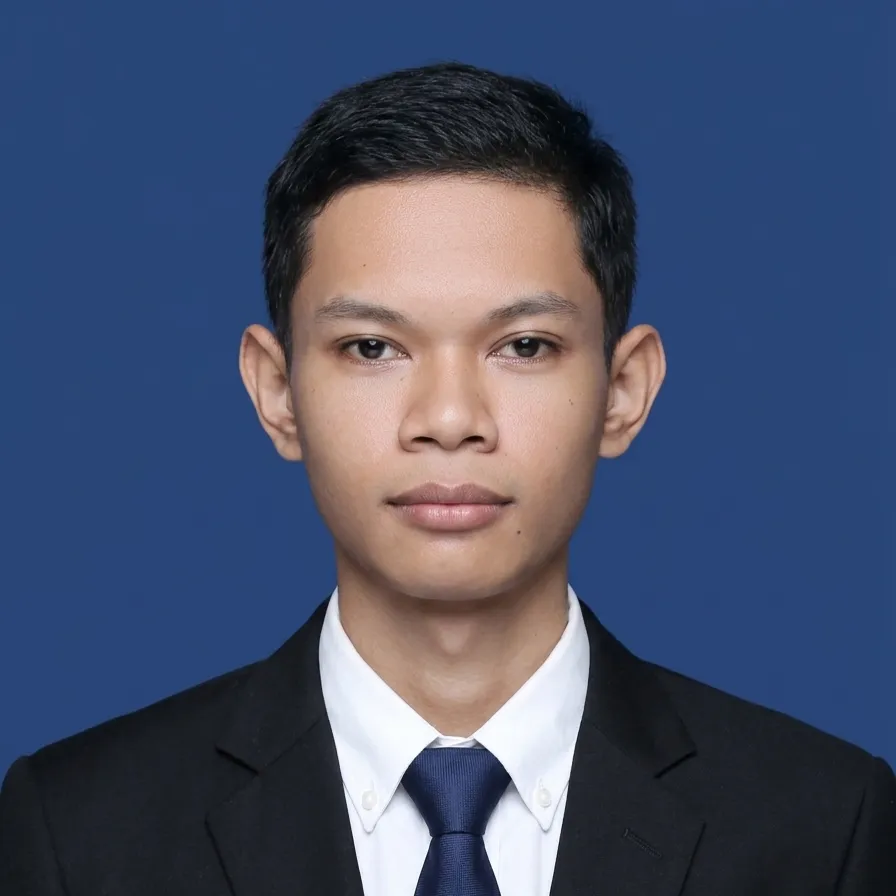
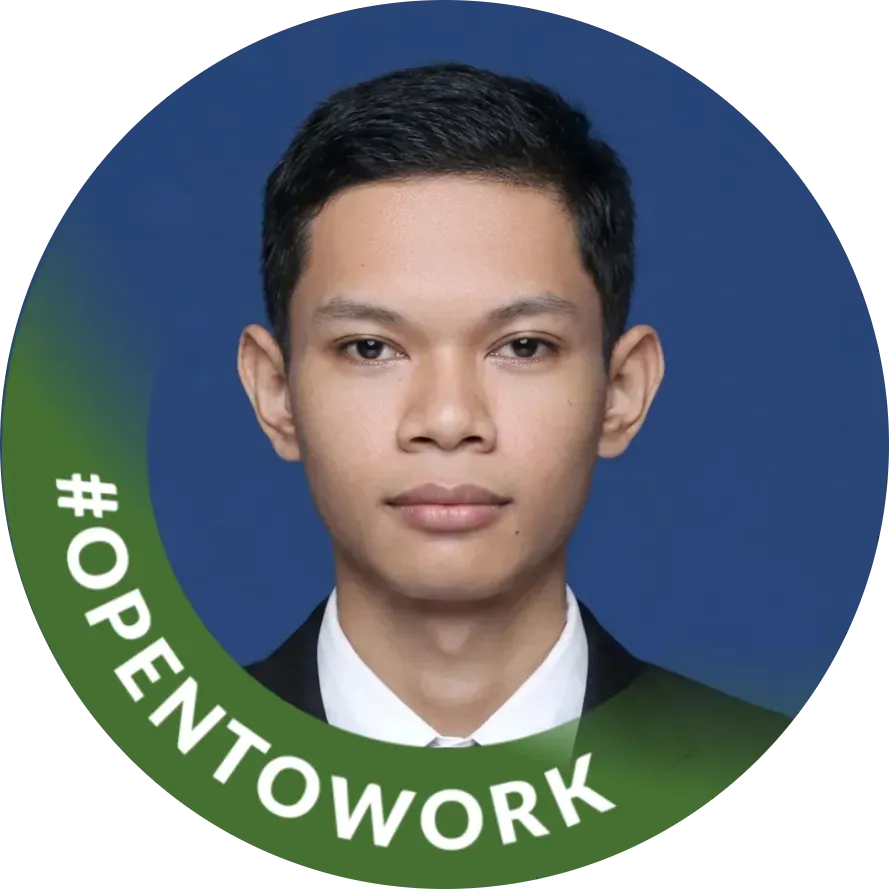
update

diff --git a/index.html b/index.html
@@ -36,7 +36,7 @@
 
     <!-- PWA Manifest & Icons -->
     <link rel="manifest" href="manifest.json">
-    <link rel="apple-touch-icon" href="assets/images/icons/icon-192.png">
+    <link rel="apple-touch-icon" href="assets/images/icons/icon-192.webp">
     <meta name="theme-color" content="#284F8C">
     <meta name="mobile-web-app-capable" content="yes">
     <meta name="apple-mobile-web-app-status-bar-style" content="black-translucent">
@@ -249,7 +249,6 @@
                         <img src="assets/images/profile/profile.webp" alt="Foto Profil Hiu Kencana Widhi. S.T." class="hero-img"
                              loading="eager" decoding="async"
                              onerror="this.src='https://via.placeholder.com/350'">
-                        <img src="assets/images/badge/badge.png" alt="Open To Work Badge" class="hero-badge-overlay">
                     </div>
                 </div>
             </div>
@@ -689,13 +688,10 @@
                 </div>
                 <div class="modal-body text-center pt-0 pb-4 px-4">
                     <div class="d-flex justify-content-center mb-4">
-                        <div class="position-relative d-inline-block">
-                            <img src="assets/images/profile/profile.webp" alt="Foto Profil Hiu Kencana Widhi, S.T."
-                                class="rounded-circle shadow-lg"
-                                style="width:180px; height:180px; object-fit:cover; border:4px solid var(--border); display:block;"
-                                onerror="this.src='https://via.placeholder.com/180'">
-                            <img src="assets/images/badge/badge.png" alt="Open To Work Badge" class="modal-badge-overlay">
-                        </div>
+                        <img src="assets/images/profile/profile.webp" alt="Foto Profil Hiu Kencana Widhi, S.T."
+                            class="rounded-circle shadow-lg"
+                            style="width:180px; height:180px; object-fit:cover; border:4px solid var(--border); display:block;"
+                              onerror="this.src='https://via.placeholder.com/180'">
                     </div>
                     <h2 class="h4 fw-bold mb-1" data-t="hero_subtitle">Hiu Kencana Widhi, S.T.</h2>
                     <p class="text-accent fw-semibold mb-1" style="font-size:0.95rem;"><span data-t="role_log">Teknik

diff --git a/core/css/style.css b/core/css/style.css
@@ -967,34 +967,6 @@ body.dark-mode .hero-glow-backdrop {
     .hero-img { width: 360px; height: 360px; }
 }
 
-/* --- OPEN TO WORK BADGE OVERLAY IMAGE --- */
-.hero-badge-overlay {
-    position: absolute;
-    top: 0;
-    left: 0;
-    width: 100%;
-    height: 100%;
-    object-fit: contain;
-    pointer-events: none;
-    z-index: 2;
-    transition: transform 0.3s cubic-bezier(0.34, 1.56, 0.64, 1);
-}
-
-#heroPhotoBtn:hover .hero-badge-overlay {
-    transform: scale(1.02);
-}
-
-.modal-badge-overlay {
-    position: absolute;
-    top: 0;
-    left: 0;
-    width: 100%;
-    height: 100%;
-    object-fit: contain;
-    pointer-events: none;
-    z-index: 2;
-}
-
 /* Floating Scroll Down Indicator */
 .hero-scroll-down {
     position: absolute;

diff --git a/core/pages/dokumentasi.html b/core/pages/dokumentasi.html
@@ -22,7 +22,7 @@
 
     <!-- PWA Manifest & Icons -->
     <link rel="manifest" href="../../manifest.json">
-    <link rel="apple-touch-icon" href="../../assets/images/icons/icon-192.png">
+    <link rel="apple-touch-icon" href="../../assets/images/icons/icon-192.webp">
     <meta name="theme-color" content="#284F8C">
     <meta name="mobile-web-app-capable" content="yes">
     <meta name="apple-mobile-web-app-status-bar-style" content="black-translucent">

diff --git a/core/pages/keahlian.html b/core/pages/keahlian.html
@@ -19,7 +19,7 @@
 
     <!-- PWA Manifest & Icons -->
     <link rel="manifest" href="../../manifest.json">
-    <link rel="apple-touch-icon" href="../../assets/images/icons/icon-192.png">
+    <link rel="apple-touch-icon" href="../../assets/images/icons/icon-192.webp">
     <meta name="theme-color" content="#284F8C">
     <meta name="mobile-web-app-capable" content="yes">
     <meta name="apple-mobile-web-app-status-bar-style" content="black-translucent">

diff --git a/core/pages/kontak.html b/core/pages/kontak.html
@@ -18,7 +18,7 @@
 
     <!-- PWA Manifest & Icons -->
     <link rel="manifest" href="../../manifest.json">
-    <link rel="apple-touch-icon" href="../../assets/images/icons/icon-192.png">
+    <link rel="apple-touch-icon" href="../../assets/images/icons/icon-192.webp">
     <meta name="theme-color" content="#284F8C">
     <meta name="mobile-web-app-capable" content="yes">
     <meta name="apple-mobile-web-app-status-bar-style" content="black-translucent">

diff --git a/core/pages/pengalaman.html b/core/pages/pengalaman.html
@@ -22,7 +22,7 @@
 
     <!-- PWA Manifest & Icons -->
     <link rel="manifest" href="../../manifest.json">
-    <link rel="apple-touch-icon" href="../../assets/images/icons/icon-192.png">
+    <link rel="apple-touch-icon" href="../../assets/images/icons/icon-192.webp">
     <meta name="theme-color" content="#284F8C">
     <meta name="mobile-web-app-capable" content="yes">
     <meta name="apple-mobile-web-app-status-bar-style" content="black-translucent">

diff --git a/core/pages/proyek.html b/core/pages/proyek.html
@@ -22,7 +22,7 @@
 
     <!-- PWA Manifest & Icons -->
     <link rel="manifest" href="../../manifest.json">
-    <link rel="apple-touch-icon" href="../../assets/images/icons/icon-192.png">
+    <link rel="apple-touch-icon" href="../../assets/images/icons/icon-192.webp">
     <meta name="theme-color" content="#284F8C">
     <meta name="mobile-web-app-capable" content="yes">
     <meta name="apple-mobile-web-app-status-bar-style" content="black-translucent">

diff --git a/core/pages/sertifikat.html b/core/pages/sertifikat.html
@@ -19,7 +19,7 @@
 
     <!-- PWA Manifest & Icons -->
     <link rel="manifest" href="../../manifest.json">
-    <link rel="apple-touch-icon" href="../../assets/images/icons/icon-192.png">
+    <link rel="apple-touch-icon" href="../../assets/images/icons/icon-192.webp">
     <meta name="theme-color" content="#284F8C">
     <meta name="mobile-web-app-capable" content="yes">
     <meta name="apple-mobile-web-app-status-bar-style" content="black-translucent">

diff --git a/resume/index-id.html b/resume/index-id.html
@@ -354,7 +354,7 @@
 
     <!-- PWA Manifest & Icons -->
     <link rel="manifest" href="../manifest.json">
-    <link rel="apple-touch-icon" href="../assets/images/icons/icon-192.png">
+    <link rel="apple-touch-icon" href="../assets/images/icons/icon-192.webp">
     <meta name="theme-color" content="#284F8C">
     <meta name="mobile-web-app-capable" content="yes">
     <meta name="apple-mobile-web-app-status-bar-style" content="black-translucent">

diff --git a/resume/index.html b/resume/index.html
@@ -354,7 +354,7 @@
 
     <!-- PWA Manifest & Icons -->
     <link rel="manifest" href="../manifest.json">
-    <link rel="apple-touch-icon" href="../assets/images/icons/icon-192.png">
+    <link rel="apple-touch-icon" href="../assets/images/icons/icon-192.webp">
     <meta name="theme-color" content="#284F8C">
     <meta name="mobile-web-app-capable" content="yes">
     <meta name="apple-mobile-web-app-status-bar-style" content="black-translucent">

diff --git a/sw.js b/sw.js
@@ -14,9 +14,8 @@ const PRECACHE_ASSETS = [
     './core/pages/sertifikat.html',
     './resume/index.html',
     './assets/images/profile/profile.webp',
-    './assets/images/badge/badge.png',
-    './assets/images/icons/icon-192.png',
-    './assets/images/icons/icon-512.png'
+    './assets/images/icons/icon-192.webp',
+    './assets/images/icons/icon-512.webp'
 ];
 
 // Install Event — Precaching core assets

diff --git a/README.md b/README.md
@@ -4,4 +4,4 @@ HTML | CSS | JavaScript
 
 https://hiu-kencana-widhi.github.io/portfolio/ | GitHub @hiu-kencana-widhi
 
-![Deskripsi](resume/RESUME-HIU.png)
+![Deskripsi](resume/RESUME-HIU.webp)
